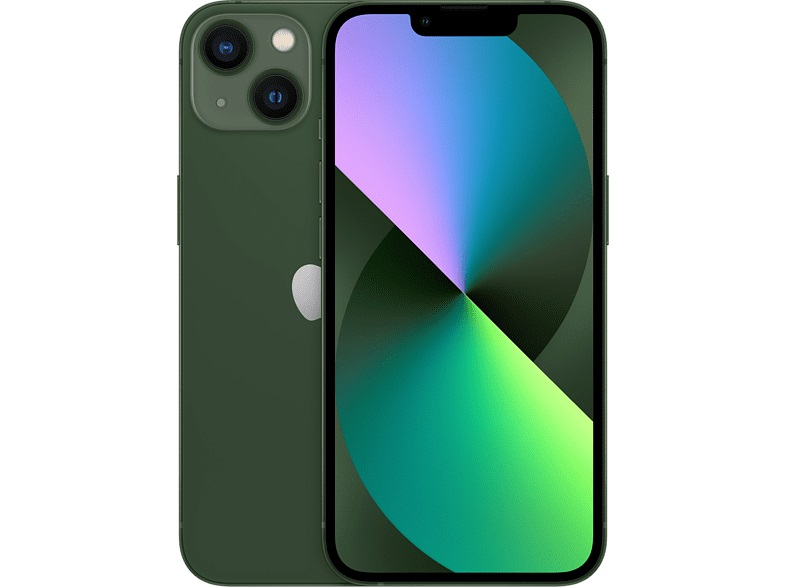
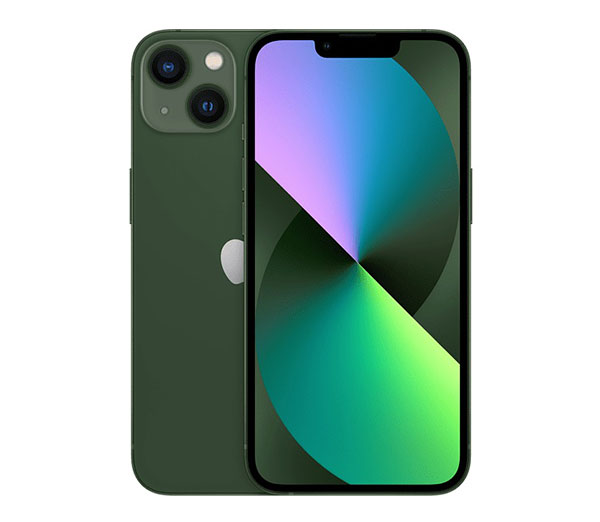
add image to product list

Changed region(s): [[0.21, 0.0, 0.81, 1.0], [0.45, 0.4291, 0.48, 0.4598]]

diff --git a/api/data/productList.ts b/api/data/productList.ts
@@ -1,11 +1,74 @@
 export const productList = [
-  { id: 1, title: "Galaxy S23 Ultra", price: 1649.99, image: "", qty: 1 },
-  { id: 2, title: "Galaxy S23+", price: 1399.99, image: "", qty: 1 },
-  { id: 3, title: "Galaxy S22", price: 969.99, image: "", qty: 1 },
-  { id: 4, title: "Galaxy Z Flip4", price: 1059.99, image: "", qty: 1 },
-  { id: 5, title: "Galaxy Z Fold4", price: 2069.99, image: "", qty: 1 },
-  { id: 6, title: "iPhone 14 Plus", price: 899.99, image: "", qty: 1 },
-  { id: 7, title: "iPhone 14 Pro", price: 999.99, image: "", qty: 1 },
-  { id: 8, title: "iPhone 13", price: 599.99, image: "", qty: 1 },
-  { id: 9, title: "iPhone SE", price: 429.99, image: "", qty: 1 },
+  {
+    id: 1,
+    title: "Galaxy S23 Ultra",
+    price: 1649.99,
+    image:
+      "https://d2hwldi6w8hju1.cloudfront.net/Content/images/thumbs/0022646_samsung_galaxy_s23_ultra_512gb_grn_500.png",
+    qty: 1,
+  },
+  {
+    id: 2,
+    title: "Galaxy S23+",
+    price: 1399.99,
+    image:
+      "https://d2hwldi6w8hju1.cloudfront.net/Content/images/thumbs/0022632_samsung_galaxy_s23_512gb_lavendel_500.png",
+    qty: 1,
+  },
+  {
+    id: 3,
+    title: "Galaxy S22",
+    price: 969.99,
+    image:
+      "https://d2hwldi6w8hju1.cloudfront.net/Content/images/thumbs/0020879_galaxy_s22_128gb_black_500.png",
+    qty: 1,
+  },
+  {
+    id: 4,
+    title: "Galaxy Z Flip4",
+    price: 1059.99,
+    image:
+      "https://d2hwldi6w8hju1.cloudfront.net/Content/images/thumbs/0021222_samsung_galaxy_flip_4_5g_128gb_ljusbl_500.png",
+    qty: 1,
+  },
+  {
+    id: 5,
+    title: "Galaxy Z Fold4",
+    price: 2069.99,
+    image:
+      "https://d2hwldi6w8hju1.cloudfront.net/Content/images/thumbs/0021219_samsung_galaxy_fold_4_5g_256gb_svart_500.png",
+    qty: 1,
+  },
+  {
+    id: 6,
+    title: "iPhone 14 Plus",
+    price: 899.99,
+    image:
+      "https://d2hwldi6w8hju1.cloudfront.net/Content/images/thumbs/0021329_iphone_14_plus_bl_500.png",
+    qty: 1,
+  },
+  {
+    id: 7,
+    title: "iPhone 14 Pro",
+    price: 999.99,
+    image:
+      "https://d2hwldi6w8hju1.cloudfront.net/Content/images/thumbs/0021357_iphone_14_pro_djuplila_500.png",
+    qty: 1,
+  },
+  {
+    id: 8,
+    title: "iPhone 13",
+    price: 599.99,
+    image:
+      "https://d2hwldi6w8hju1.cloudfront.net/Content/images/thumbs/0020837_iphone_13_128gb_grn_500.png",
+    qty: 1,
+  },
+  {
+    id: 9,
+    title: "iPhone SE",
+    price: 429.99,
+    image:
+      "https://d2hwldi6w8hju1.cloudfront.net/Content/images/thumbs/0020993_apple_iphone_se_5g_64gb_midnight_500.png",
+    qty: 1,
+  },
 ];

diff --git a/api/src/index.ts b/api/src/index.ts
@@ -1,8 +1,10 @@
 import Express from "express";
+import cors from "cors";
 import productRouter from "./routes/products";
 
 const app = Express();
 app.use(Express.json());
+app.use(cors());
 
 // app.use('/users', userRouter)
 app.use("/products", productRouter);
